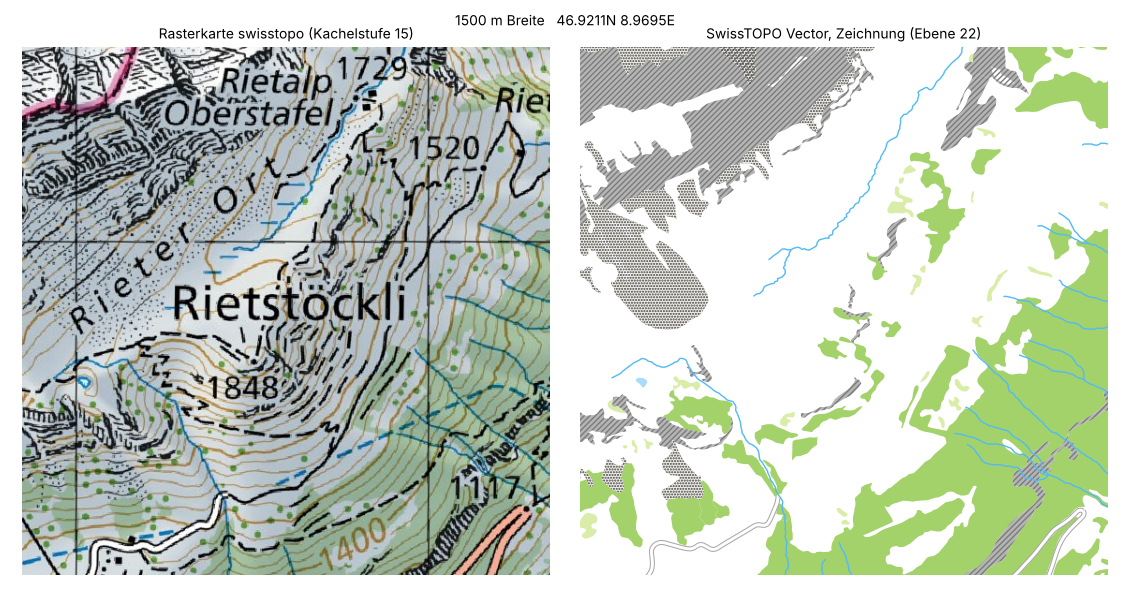
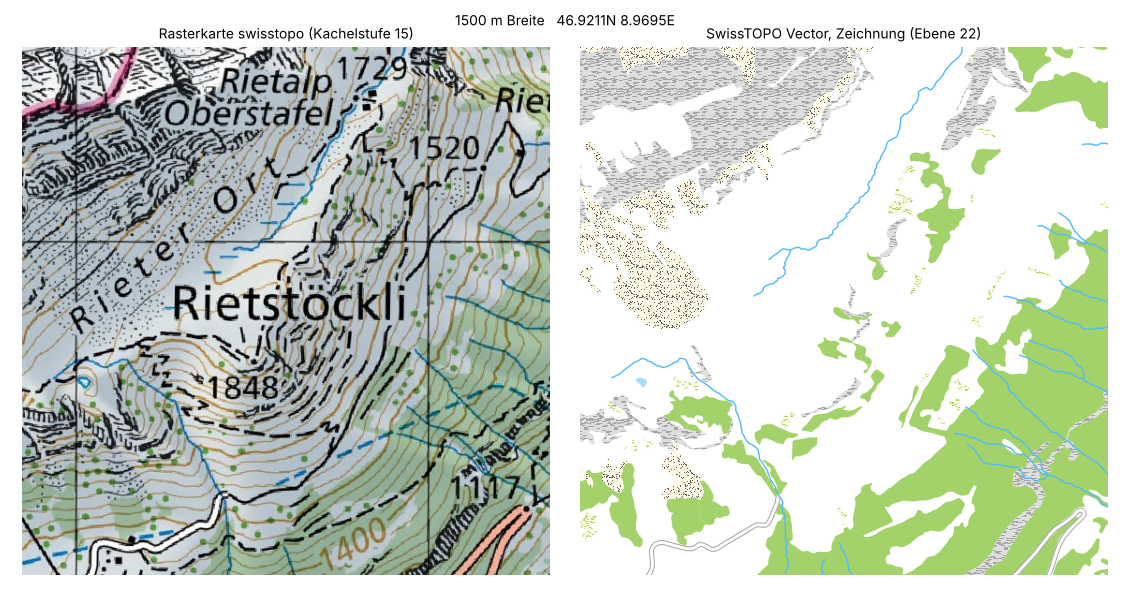
Vector patterns from screenshots: Fels, Geroell, Reben (orange bolts); comparison renders TYP patterns
Claude-Session: https://claude.ai/code/session_01PSYnYYLKVXFpX9ESmrdTMw

diff --git a/scripts/compare_vector.py b/scripts/compare_vector.py
@@ -17,6 +17,7 @@ from matplotlib.path import Path
 from PIL import Image
 from pyproj import Transformer
 from vector_palette import *
+from vector_patterns import PATTERNS
 
 shp, prefix, lon, lat = sys.argv[1], sys.argv[2], float(sys.argv[3]), float(sys.argv[4])
 widths = [float(w) for w in sys.argv[5:]]
@@ -76,6 +77,25 @@ def draw(w, ax, res):
                     a = np.array(r.coords); v += list(a); c += [Path.MOVETO] + [Path.LINETO] * (len(a) - 2) + [Path.CLOSEPOLY]
                 ax.add_patch(PathPatch(Path(v, c), fc=col, ec="none", zorder=z))
 
+    def pat_poly(geoms, typ, z):
+        """Flaeche mit dem 32x32-Muster der TYP-Datei, ein Musterpixel = ein Bildschirmpixel (564 px Breite)"""
+        _, bg, fg, rows = PATTERNS[typ]
+        m = np.array([[c == "f" for c in r] for r in rows])
+        rgb = lambda h: [int(h[i:i + 2], 16) for i in (1, 3, 5)]
+        tile = np.where(m[..., None], rgb(fg), rgb(bg)).astype(np.uint8)
+        arr = np.tile(tile, (PX // 32 + 1, PX // 32 + 1, 1))[:PX, :PX]
+        for g in geoms:
+            if g is None or g.is_empty: continue
+            for p in shapely.get_parts(shapely.force_2d(g)):
+                if p.geom_type != "Polygon": continue
+                v, c = [], []
+                for r in [p.exterior] + list(p.interiors):
+                    a = np.array(r.coords); v += list(a); c += [Path.MOVETO] + [Path.LINETO] * (len(a) - 2) + [Path.CLOSEPOLY]
+                patch = PathPatch(Path(v, c), fc="none", ec="none", transform=ax.transData); ax.add_patch(patch)
+                im = ax.imshow(arr, extent=(x0, x1, y0, y1), interpolation="nearest", zorder=z, aspect="equal")
+                im.set_clip_path(patch)
+        ax.set_xlim(x0, x1); ax.set_ylim(y0, y1)
+
     def line(geoms, col, px, z, ls="-"):
         for g in geoms:
             if g is None: continue
@@ -93,14 +113,9 @@ def draw(w, ax, res):
     if on(23): poly(read("VERKEHRSAREAL", bb).geometry, VERKEHR, 2)
     b = read("BODENBEDECKUNG", bb); t = b.OBJEKTART
     if on(20): poly(b[t.isin(["Wald", "Wald offen", "Gebueschwald"])].geometry, WALD, 4)
-    if on(22): poly(b[t == "Gehoelzflaeche"].geometry, "#D9EDA8", 3)
+    if on(22): pat_poly(b[t == "Gehoelzflaeche"].geometry, "0x4f", 3)
     if on(21):
-        for sel, bgc, fgc, hat in ((t.isin(["Fels", "Fels locker"]), FELS, FELS_TEXTUR, "//////"), (t == "Lockergestein", GEROELL, WEG, "......")):
-            poly(b[sel].geometry, bgc, 4)                       # Textur wie im TYP: kurze dunkle Striche (Fels), Punkte (Geroell)
-            for g in b[sel].geometry:
-                for pp in shapely.get_parts(shapely.force_2d(g)):
-                    if pp.geom_type == "Polygon":
-                        ax.add_patch(PathPatch(Path(np.array(pp.exterior.coords)), fc="none", ec=fgc, hatch=hat, lw=0, zorder=4.5))
+        pat_poly(b[t.isin(["Fels", "Fels locker"])].geometry, "0x52", 4); pat_poly(b[t == "Lockergestein"].geometry, "0x53", 4)
     if on(20):
         poly(b[t.isin(["Stehende Gewaesser", "Fliessgewaesser"])].geometry, WASSER_FL, 5); poly(read("STEHENDES_GEWAESSER", bb).geometry, WASSER_FL, 5)
     if on(21):
@@ -115,11 +130,7 @@ def draw(w, ax, res):
         road(s, t.isin(["4m Strasse", "3m Strasse", "Verbindung", "Dienstzufahrt", "Zufahrt", "Ausfahrt", "Einfahrt"]) & ~(big & nat), NEBEN, 3, 6)
     if on(22):                                                 # Reben, Obst: Gittermuster
         a = read("NUTZUNGSAREAL", bb); a = a[a.OBJEKTART.isin(["Reben", "Obstanlage"])]
-        poly(a.geometry, "#F2F8CC", 3)
-        for g in a.geometry:
-            for pp in shapely.get_parts(shapely.force_2d(g)):
-                if pp.geom_type == "Polygon":
-                    ax.add_patch(PathPatch(Path(np.array(pp.exterior.coords)), fc="none", ec=REBEN, hatch="xxxx", lw=0, zorder=3.5))
+        pat_poly(a.geometry, "0x4e", 3)
     if on(23):                                                 # Wege schwarz nach swisstopo-Legende, kein Farbcode
         line(s[t == "2m Weg"].geometry, SCHWARZ, 1.2, 6)
         line(s[t == "1m Weg"].geometry, SCHWARZ, 1.2, 6, ls=(0, (5, 3)))

diff --git a/scripts/make_vector_typ.py b/scripts/make_vector_typ.py
@@ -5,33 +5,22 @@ Farben und Muster sind an Bildschirmfotos der Garmin-Vektorkarte auf dem Edge 10
 (Untergrund creme, Wald gruen, Gebaeude grau auf grauem Siedlungsgebiet, Wege dunkelgrau gestrichelt).
 Die Typ-Codes passen zu mkgmap/vector/style/{lines,polygons}.
 """
-import os, random
+import os
 
 OUT = os.path.join(os.path.dirname(os.path.abspath(__file__)), "..", "mkgmap", "vector", "typ", "swisstopo_vector.txt")
 
 from vector_palette import *  # noqa: F401,F403  (Farben, gemeinsam mit preview_vector.py)
+from vector_patterns import PATTERNS
 
 
 def solid_poly(t, name, col):
     return f'[_polygon]\nType={t}\nString1=0x04,{name}\nXpm="0 0 1 0"\n"1 c {col}"\n[end]\n'
 
 
-def pattern_poly(t, name, bg, fg, density, run, seed, grid=False):
-    """32x32-Muster: Hintergrundfarbe bg, Vordergrund fg als zufaellige kurze Striche (run Pixel) oder Raster"""
-    rnd = random.Random(seed)
-    g = [["b"] * 32 for _ in range(32)]
-    if grid:
-        for y in range(32):
-            for x in range(32):
-                if (x + y) % 6 == 0 or (x - y) % 6 == 0:
-                    g[y][x] = "f"
-    else:
-        for _ in range(int(32 * 32 * density / run)):
-            y, x = rnd.randrange(32), rnd.randrange(32)
-            for k in range(run):
-                g[y][(x + k) % 32] = "f"
-    rows = "\n".join('"' + "".join(r) + '"' for r in g)
-    return f'[_polygon]\nType={t}\nString1=0x04,{name}\nXpm="32 32 2 1"\n"b c {bg}"\n"f c {fg}"\n{rows}\n[end]\n'
+def pattern_poly(t):
+    name, bg, fg, rows = PATTERNS[t]
+    body = "\n".join('"' + r + '"' for r in rows)
+    return f'[_polygon]\nType={t}\nString1=0x04,{name}\nXpm="32 32 2 1"\n"b c {bg}"\n"f c {fg}"\n{body}\n[end]\n'
 
 
 def solid_line(t, name, fill, w, border=None):
@@ -89,14 +78,14 @@ parts = [
     solid_poly("0x0c", "Areal", AREAL),
     solid_poly("0x0e", "Verkehrsareal", VERKEHR),
     solid_poly("0x50", "Wald", WALD),
-    pattern_poly("0x4f", "Gehoelz", BG, GEHOELZ, 0.30, 2, 1),
-    pattern_poly("0x4e", "Reben, Obst", "#F2F8CC", REBEN, 0, 1, 2, grid=True),
+    pattern_poly("0x4f"),
+    pattern_poly("0x4e"),
     solid_poly("0x17", "Park", PARK),
     solid_poly("0x1a", "Friedhof", FRIEDHOF),
     solid_poly("0x19", "Sport und Freizeit", SPORT),
-    pattern_poly("0x51", "Feuchtgebiet", BG, FEUCHT, 0.22, 3, 3),
-    pattern_poly("0x52", "Fels", FELS, FELS_TEXTUR, 0.32, 3, 4),
-    pattern_poly("0x53", "Geroell", GEROELL, WEG, 0.08, 1, 5),
+    pattern_poly("0x51"),
+    pattern_poly("0x52"),
+    pattern_poly("0x53"),
     solid_poly("0x3f", "Gewaesser", WASSER_FL),
     solid_poly("0x10e05", "Gebaeude", GEBAEUDE),
     # Strassen: Fuellung plus Rand

diff --git a/scripts/vector_patterns.py b/scripts/vector_patterns.py
@@ -1,0 +1,34 @@
+"""32x32-Muster der Flaechen (gemeinsam fuer make_vector_typ.py und compare_vector.py). 'b' = Hintergrund, 'f' = Vordergrund."""
+import random
+from vector_palette import *  # noqa: F401,F403
+
+
+def grid(density=0.0, run=1, seed=0, kind="strokes"):
+    rnd = random.Random(seed)
+    g = [["b"] * 32 for _ in range(32)]
+    if kind == "grid":
+        for y in range(32):
+            for x in range(32):
+                if (x + y) % 6 == 0 or (x - y) % 6 == 0:
+                    g[y][x] = "f"
+    elif kind == "bolts":                       # Reben: kleine Blitzstriche im Raster, jede zweite Reihe versetzt (wie Garmin)
+        for r, y in enumerate(range(1, 32, 11)):
+            for x in range(2 + (5 if r % 2 else 0), 32, 11):
+                for dx, dy in ((2, 0), (1, 1), (2, 1), (0, 2), (1, 2), (0, 3), (1, 3), (0, 4)):
+                    g[(y + dy) % 32][(x + dx) % 32] = "f"
+    else:
+        for _ in range(int(32 * 32 * density / run)):
+            y, x = rnd.randrange(32), rnd.randrange(32)
+            for k in range(run):
+                g[y][(x + k) % 32] = "f"
+    return ["".join(r) for r in g]
+
+
+# Typ -> (Name, Hintergrund, Vordergrund, Muster)
+PATTERNS = {
+    "0x4f": ("Gehoelz", BG, GEHOELZ, grid(0.30, 2, 1)),
+    "0x4e": ("Reben, Obst", REBEN_BG, REBEN, grid(kind="bolts")),
+    "0x51": ("Feuchtgebiet", BG, FEUCHT, grid(0.22, 3, 3)),
+    "0x52": ("Fels", FELS, FELS_TEXTUR, grid(0.38, 4, 4)),
+    "0x53": ("Geroell", BG, WEG_FEST, grid(0.14, 1, 5)),
+}

diff --git a/scripts/vector_palette.py b/scripts/vector_palette.py
@@ -13,7 +13,7 @@ SPORT = "#B4DC84"
 FRIEDHOF = "#CFE8AE"
 WEG = "#414041"         # Pfade, Wanderwege (gestrichelt)
 WEG_FEST = "#626162"    # Feldwege
-GEHOELZ = "#A9DC63"; REBEN = "#8DC63F"; FEUCHT = "#7FC8E8"; FELS = "#B4B6B4"; FELS_TEXTUR = "#7C7A7C"; GEROELL = "#EFEDE6"
+GEHOELZ = "#A9DC63"; REBEN = "#FFA21F"; REBEN_BG = "#E6F5C0"; FEUCHT = "#7FC8E8"; FELS = "#DEDEDE"; FELS_TEXTUR = "#A4A5A4"; GEROELL = "#EFEDE6"
 AUTOBAHN = ("#FF9900", "#734400"); HAUPT = ("#FFCE62", "#B38600"); STRASSE = ("#FFFAFF", "#8B898B")
 NEBEN = ("#FFFFFF", "#A4A5A4"); NATUR = ("#F6F2D5", "#C9BE7A")
 SCHWARZ = "#1A1A1A"      # Wege nach swisstopo-Zeichenerklaerung (2 m-Weg, 1 m-Weg, markierte Spur)

diff --git a/docs/vergleich/README.md b/docs/vergleich/README.md
@@ -11,10 +11,10 @@ Erzeugt mit `scripts/compare_vector.py <shp-ordner> <präfix> <lon> <lat> <breit
 | Wald (Sihlwald) | `wald_sihlwald_{400,1500,5000}m.png` |
 | Stadt (Zürich) | `stadt_zuerich_{400,1500,5000}m.png` |
 | Kleinstadt, Hang mit Reben und Treppen (Baden) | `baden_{400,1500,5000}m.png` |
-| Reben (Twann) | `reben_twann_{400,1500}m.png` |
+| Reben (Wettingen, Rebberg an der Mooshaldenstrasse, wie dein Screenshot) | `reben_wettingen_{500,1500}m.png` |
 
 Die Zoomstufen sind angenommen: 400 m = feinste Ebene (24), 1500 m = 22, 5000 m = 20. Einzelbäume, Schutzverbauungen und Treppen erscheinen nur in der feinsten Ebene. Bei welchem Massstab das Gerät die Ebenen wechselt, ist ungeprüft.
 
-Fels und Geröll: SwissTOPO Vector hat dafür eine Textur (Fels = graue Fläche mit kurzen dunklen Strichen, Geröll = Punkte), die dem Muster der Garmin-Vektorkarte nachempfunden ist. Die Zeichnung deutet sie nur mit Schraffur an; auf dem Gerät sieht sie anders aus (ungeprüft). Die Striche der Rasterkarte, die der Geländeform folgen, gibt es in den Daten nicht.
+Fels und Geröll: SwissTOPO Vector hat dafür eine Textur (Fels = graue Fläche mit kurzen dunklen Strichen, Geröll = Punkte), die dem Muster der Garmin-Vektorkarte nachempfunden ist. Die Bilder zeichnen die Muster jetzt pixelgenau aus der TYP-Definition (`scripts/vector_patterns.py`); Farben und Raster sind an deinen Screenshots gemessen. Wie das Gerät sie skaliert, ist ungeprüft. Die Striche der Rasterkarte, die der Geländeform folgen, gibt es in den Daten nicht.
 
 Es fehlen hier: Höhenlinien und Wanderwege (eigene Overlays), Bergnamen, Höhenpunkte.
